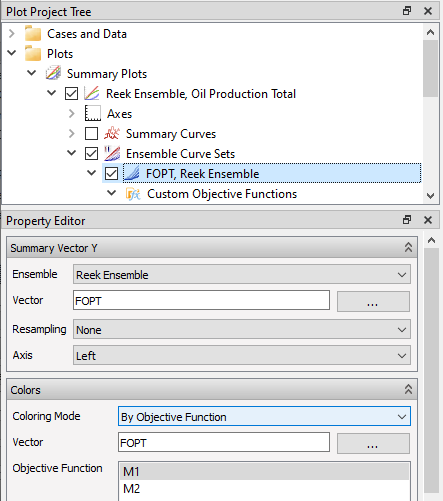
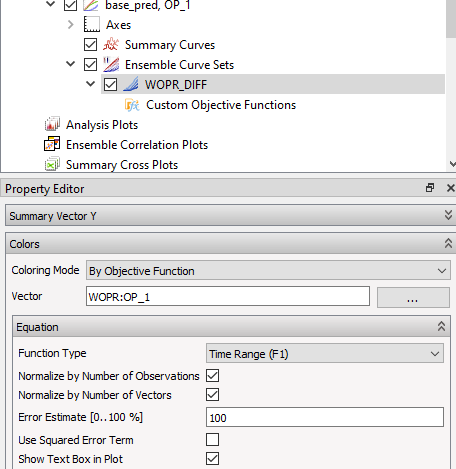
Objective function

diff --git a/content/plot-window/ObjectiveFunctions.md b/content/plot-window/ObjectiveFunctions.md
@@ -14,11 +14,25 @@ Curve coloring by **Objective Function** is activated as shown below.
 
 ![]({{< relref "" >}}images/plot-window/ObjectiveFunctionsPlotProjectTree.png)
 
-ResInsight offers two default objective functions which are readily available to color ensemble plots:
 
-- $ M1(vectors) = \frac{ \Sigma \mid (vectors) \mid }{ stdv } $ for all time steps in selected range (for one or multiple vectors)
+**Objective Function**
 
-- $ M2(vectors) = \Sigma \mid (vectors) \mid $ for all checked time steps (for one or multiple vectors)
+ResInsight uses the following objective function definition:
+
+$ F = \frac {1} {N} \Sigma (\frac{  \mid (t_i - tH_i) \mid }{ \epsilon * tH_i } )^n $ 
+
+$ t_i $ : Simulated value for time step $i$
+
+$ tH_i $ : History (observed) value for time step $i$
+
+$ N $ : Number of Observations
+
+$ \epsilon $ : Error estimate [0..100 %]
+
+$ n $ : Either 1 - Basic error term, or 2 - Squared error term
+
+
+The time step selection is either specified using **Time Range (F1)** to define all time steps in a time range or **Selected Time Steps (F2)**
 
 
 ## Creating Custom Objective Functions
@@ -28,7 +42,7 @@ It is also possible to create a **Custom Objective Function** to customize the c
 
 - Custom objective functions allow for an arbitrary combination of weigthed default objective functions
 
-- Thus, $ M_{custom} = \Sigma_i^N weight_i * f_i(vectors) $ where $ f_i \in \lbrace M1, M2 \rbrace $
+- Thus, $ M_{custom} = \Sigma_i^N weight_i * f_i(vectors) $ where $ f_i \in \lbrace F1, F2 \rbrace $
 
 A Custom Objective Function is created by invoking the context menu on the **Custom Objective Functions** item in **Plot Project Tree**.
 
